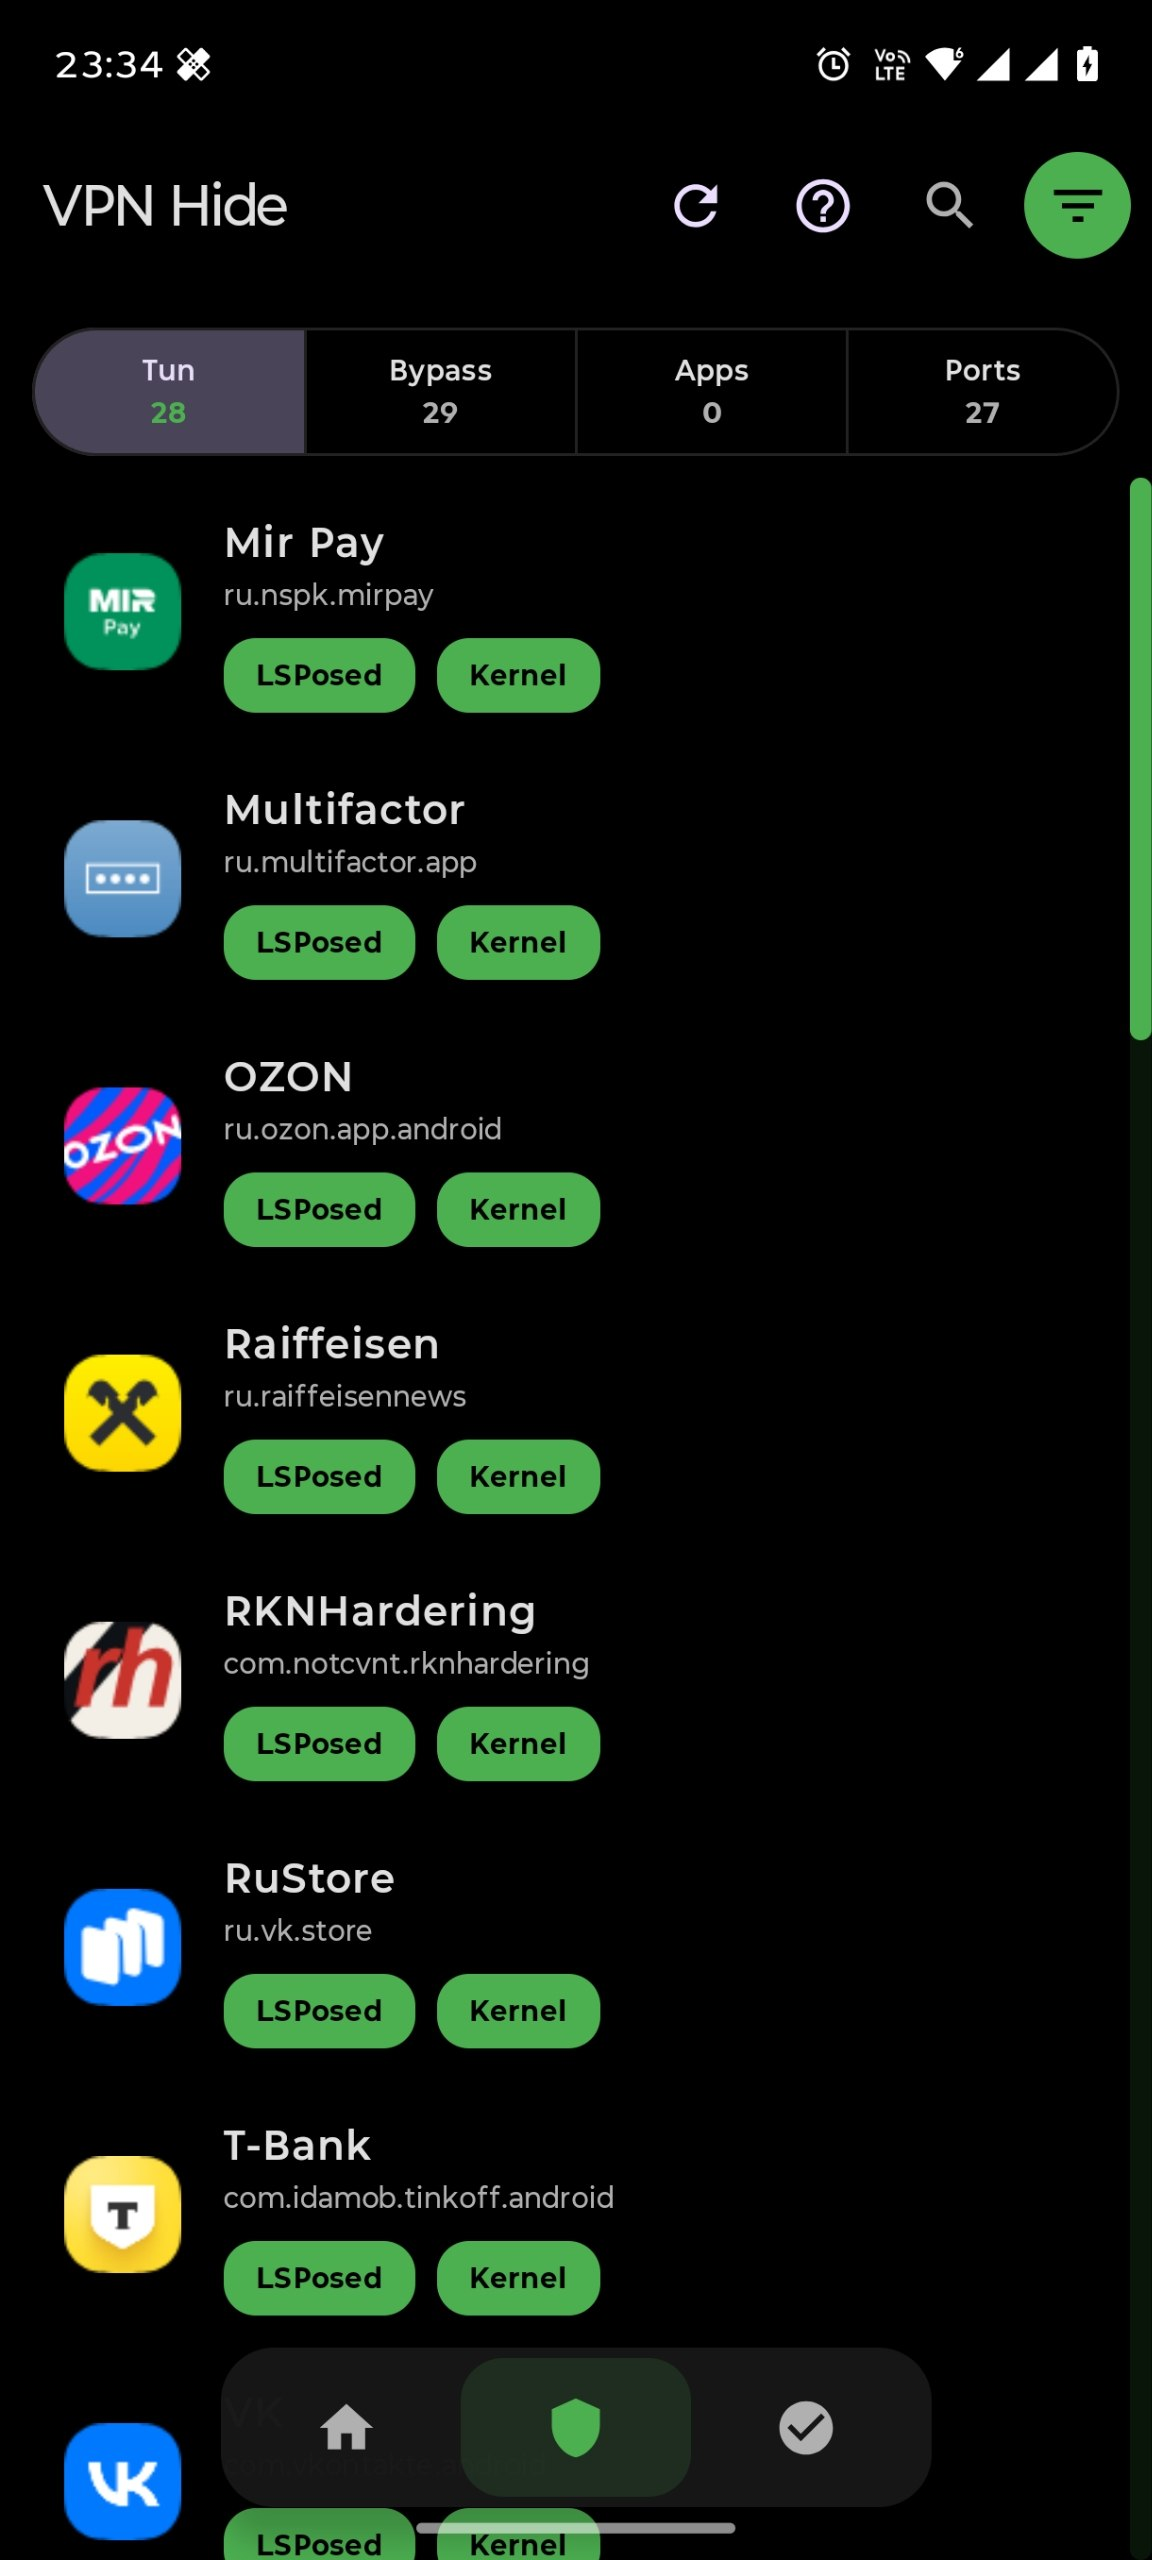
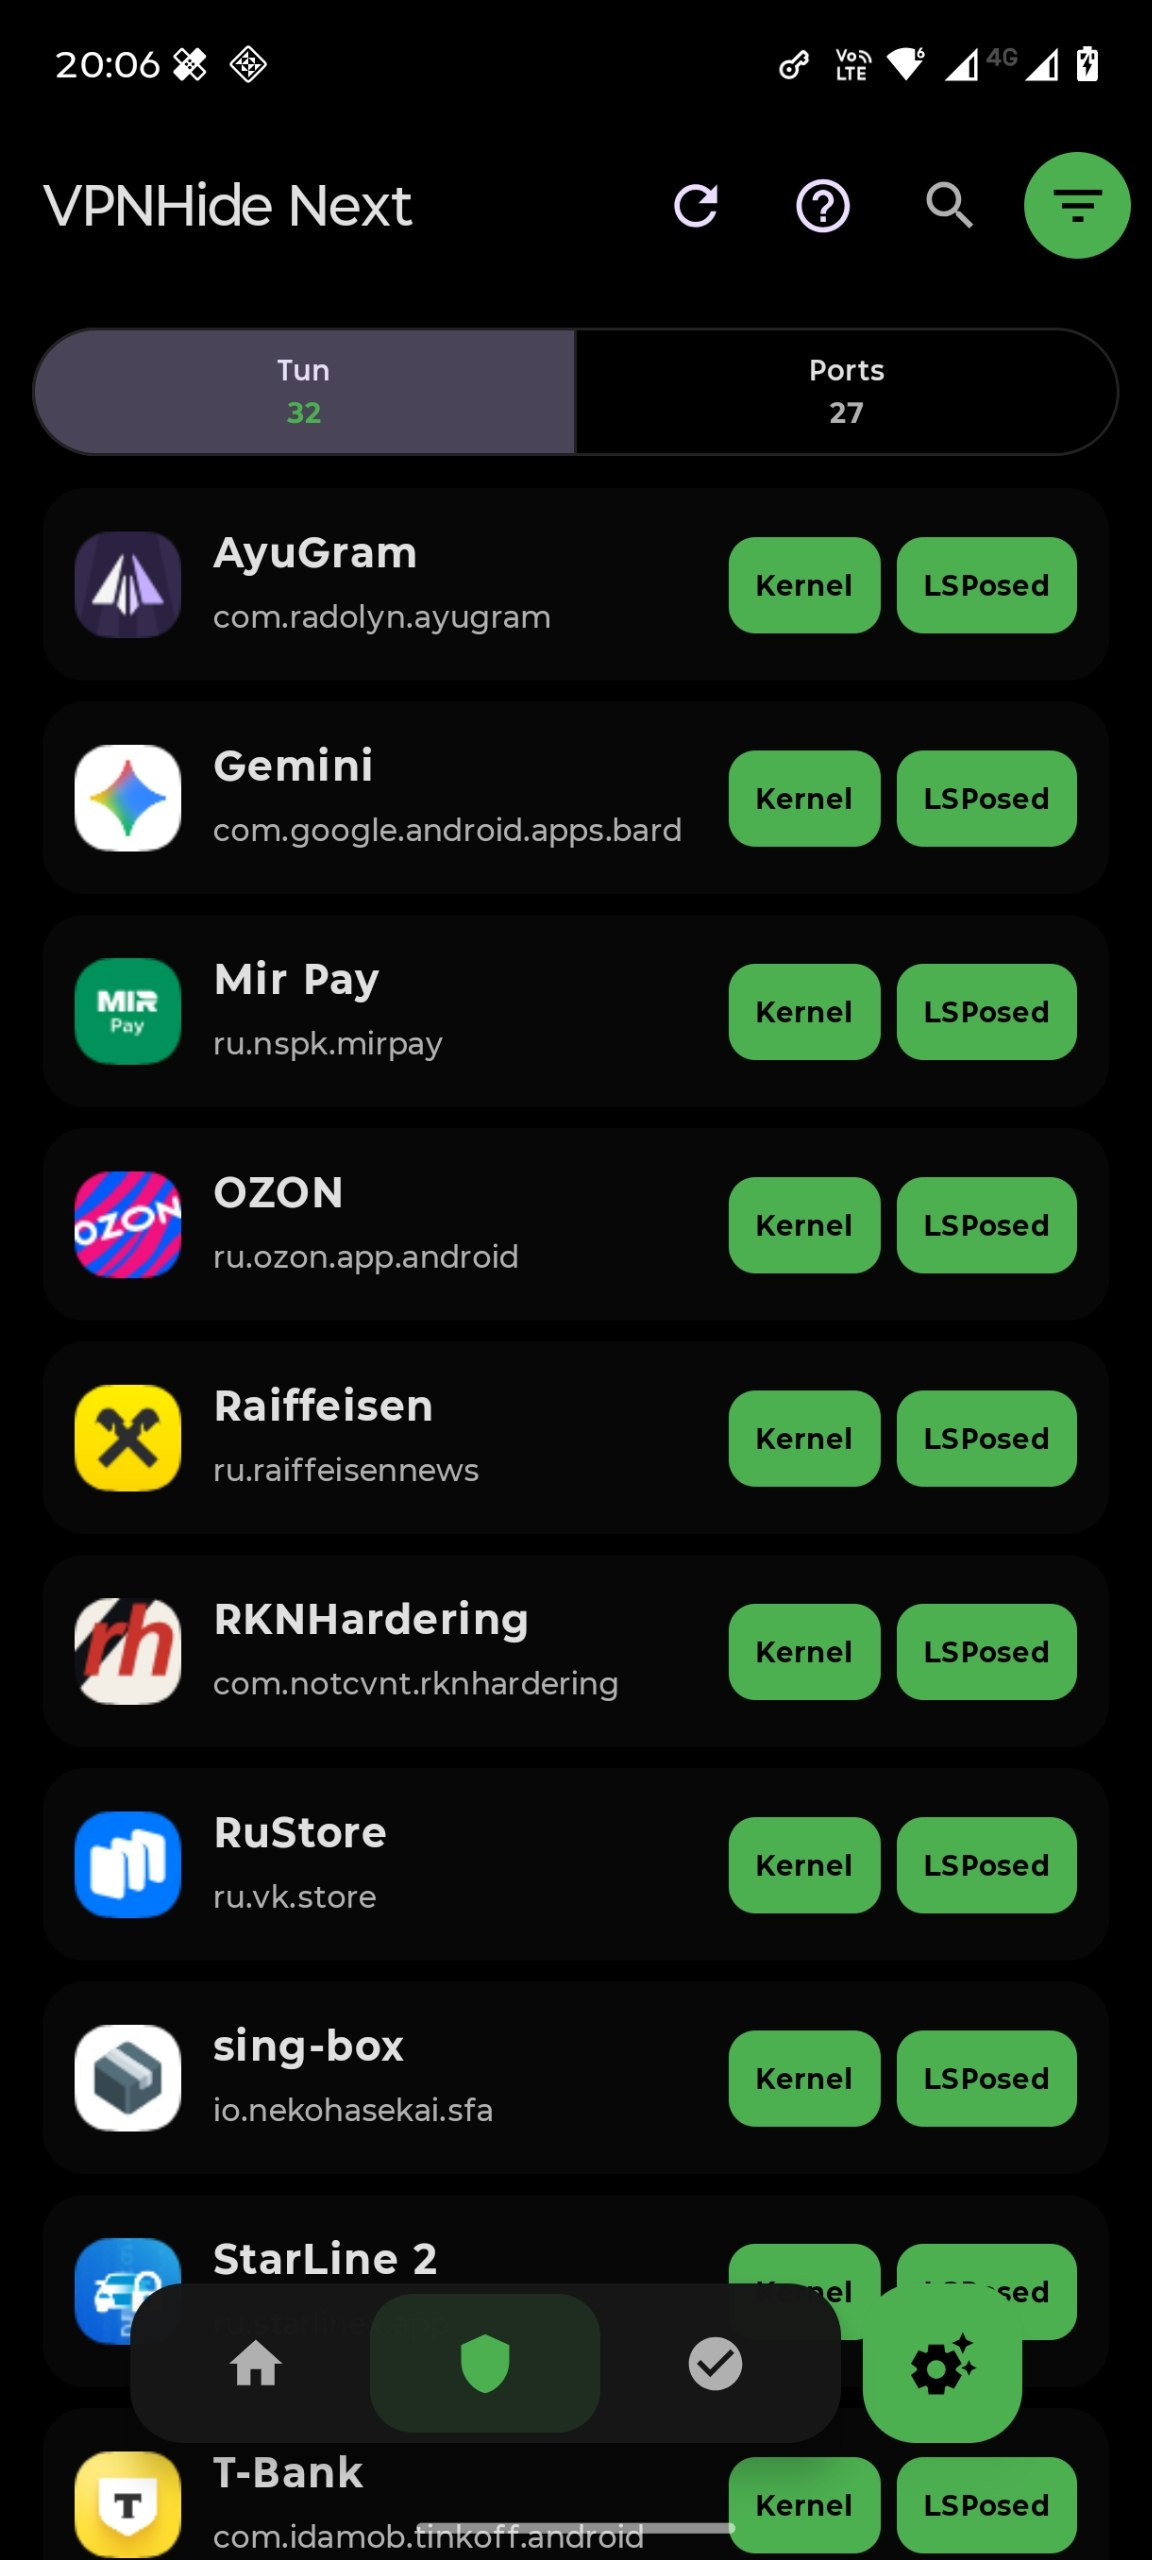
docs: update project documentation and screenshots with new custom tun and hook isolation features

diff --git a/README.md b/README.md
@@ -23,7 +23,7 @@
 
 **Основные отличия от оригинала (вкратце):**
 *   **Отказ от Zygisk**: Модуль полностью сфокусирован на скрытности без инъекций в процессы (только kmod + LSPosed).
-*   **Ядерная блокировка портов**: Блокировка loopback-соединений перенесена из iptables в хук ядра `security_socket_connect`.
+*   **Блокировка портов на уровне ядра**: Блокировка loopback-соединений перенесена из iptables в хук ядра `security_socket_connect`.
 *   **Хирургическая мимикрия в LSPosed**: Подмена VPN на свойства физ. сети в `system_server` вместо подозрительного стирания данных.
 *   **Новые нативные векторы**: Скрытие `getsockname`, MTU/MSS clamping, setsockopt биндов и правил RPDB.
 *   **Максимальный stealth**: Полный отказ от ProcFS (файлов в `/proc/`) в пользу защищенного misc-устройства `/dev/vpnhide_ctrl`.
@@ -71,3 +71,5 @@
 | <img src="assets/screenshots/Dashboard.jpg" width="200"> | <img src="assets/screenshots/AppSelector.jpg" width="200"> | <img src="assets/screenshots/SortMenu.jpg" width="200"> | <img src="assets/screenshots/Diagnostics.jpg" width="200"> |
 | **Массовые правила портов** | **Локальные правила портов** | **Валидация правил портов** | **FAQ** |
 | <img src="assets/screenshots/Bulk%20edit%20rules.jpg" width="200"> | <img src="assets/screenshots/Local%20ports%20edit.jpg" width="200"> | <img src="assets/screenshots/Duplicate%20and%20redutant%20protection.jpg" width="200"> | <img src="assets/screenshots/FAQ.jpg" width="200"> |
+| **Кастомные префиксы Tun** | **Изоляция хуков** | | |
+| <img src="assets/screenshots/Custom%20tun%20interfaces.jpg" width="200"> | <img src="assets/screenshots/Hook%20isolation.jpg" width="200"> | | |

diff --git a/README.en.md b/README.en.md
@@ -64,6 +64,8 @@
 | <img src="assets/screenshots/Dashboard.jpg" width="200"> | <img src="assets/screenshots/AppSelector.jpg" width="200"> | <img src="assets/screenshots/SortMenu.jpg" width="200"> | <img src="assets/screenshots/Diagnostics.jpg" width="200"> |
 | **Bulk Ports Rules** | **Local Ports Rules** | **Rules Validation** | **FAQ** |
 | <img src="assets/screenshots/Bulk%20edit%20rules.jpg" width="200"> | <img src="assets/screenshots/Local%20ports%20edit.jpg" width="200"> | <img src="assets/screenshots/Duplicate%20and%20redutant%20protection.jpg" width="200"> | <img src="assets/screenshots/FAQ.jpg" width="200"> |
+| **Custom Tun Prefixes** | **Hook Isolation** | | |
+| <img src="assets/screenshots/Custom%20tun%20interfaces.jpg" width="200"> | <img src="assets/screenshots/Hook%20isolation.jpg" width="200"> | | |
 
 ---
 ### Project Information
